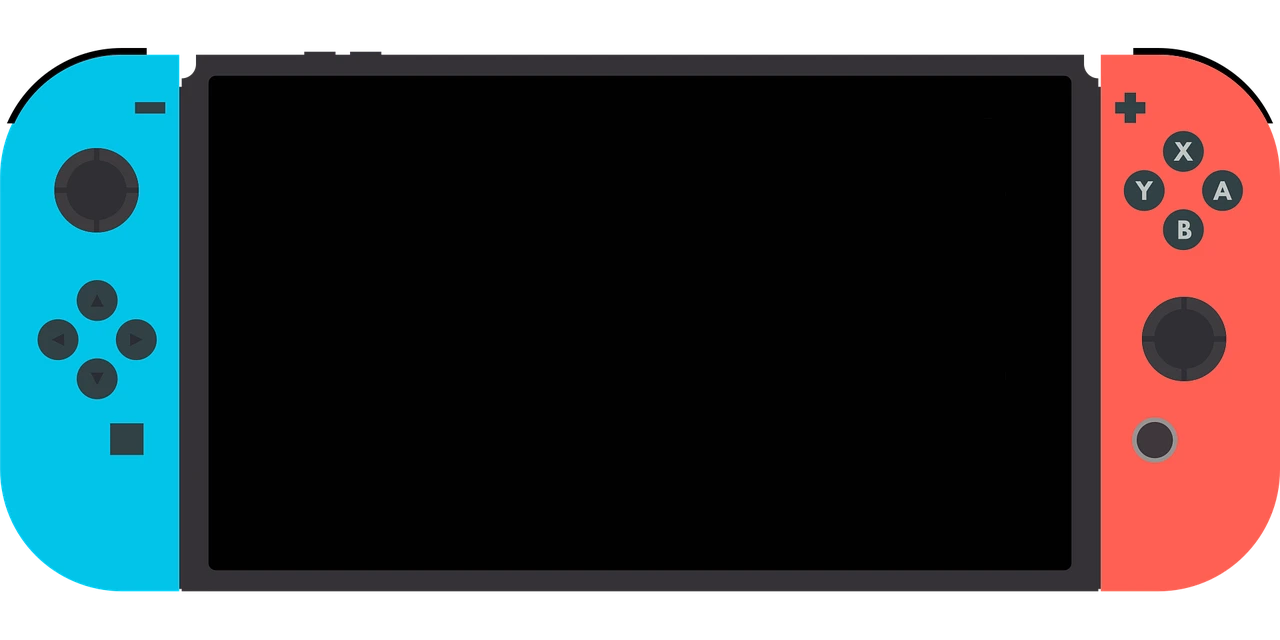
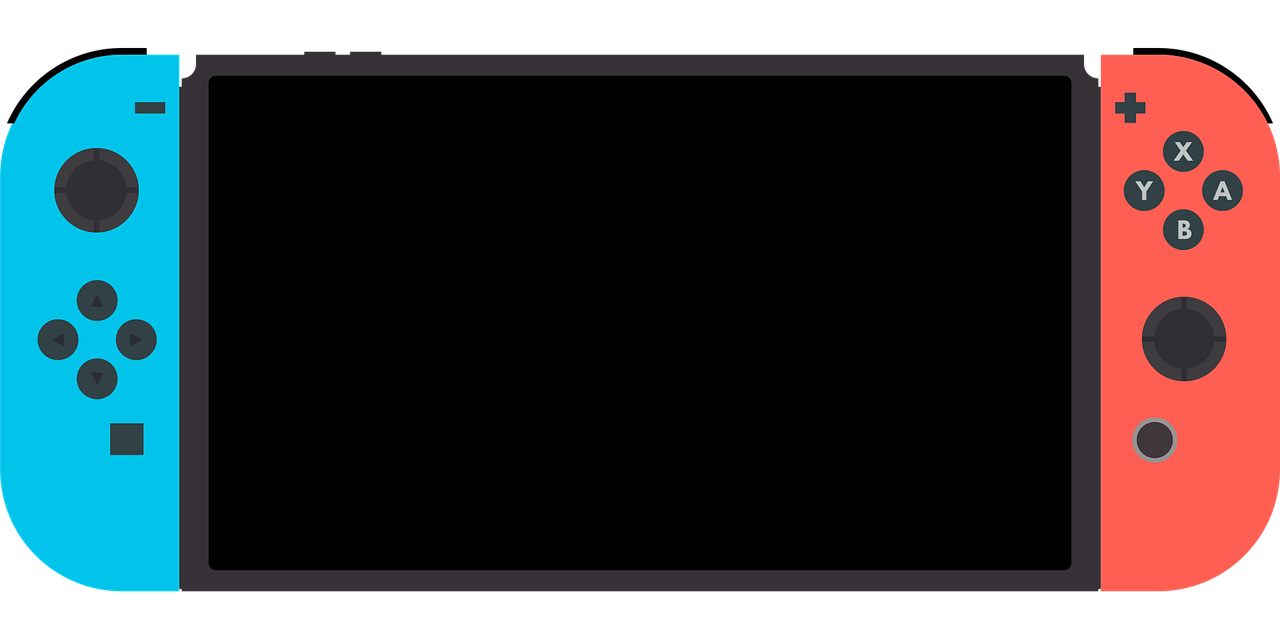
optimize images

diff --git a/dist/style.css b/dist/style.css
@@ -1,2 +1,2 @@
-@font-face{font-family:Cyberthrone;src:url(../app/fonts/cyberthrone.woff2)}:root{--font-body:"Cyberthrone";--transition-min:.2s;--transition-max:8s;--animate-delay:1s;--white:#fff;--aqua:#00fffb;--cherry:#b10b67;--light-gray:#333;--dark-gray:#141414;--black:#000}.animated{-webkit-animation-duration:1s;animation-duration:1s;-webkit-animation-fill-mode:both;animation-fill-mode:both}.delay-1{-webkit-animation-delay:var(--animate-delay);animation-delay:var(--animate-delay)}.delay-2{-webkit-animation-delay:calc(var(--animate-delay)*1.2);animation-delay:calc(var(--animate-delay)*1.2)}.delay-3{-webkit-animation-delay:calc(var(--animate-delay)*1.3);animation-delay:calc(var(--animate-delay)*1.3)}.delay-4{-webkit-animation-delay:calc(var(--animate-delay)*1.4);animation-delay:calc(var(--animate-delay)*1.4)}.delay-5{-webkit-animation-delay:calc(var(--animate-delay)*1.5);animation-delay:calc(var(--animate-delay)*1.5)}.delay-6{-webkit-animation-delay:calc(var(--animate-delay)*1.6);animation-delay:calc(var(--animate-delay)*1.6)}.delay-7{-webkit-animation-delay:calc(var(--animate-delay)*1.7);animation-delay:calc(var(--animate-delay)*1.7)}.delay-8{-webkit-animation-delay:calc(var(--animate-delay)*1.8);animation-delay:calc(var(--animate-delay)*1.8)}.delay-9{-webkit-animation-delay:calc(var(--animate-delay)*1.9);animation-delay:calc(var(--animate-delay)*1.9)}.delay-10{-webkit-animation-delay:calc(var(--animate-delay)*2);animation-delay:calc(var(--animate-delay)*2)}.delay-11{-webkit-animation-delay:calc(var(--animate-delay)*2.1);animation-delay:calc(var(--animate-delay)*2.1)}.delay-12{-webkit-animation-delay:calc(var(--animate-delay)*2.2);animation-delay:calc(var(--animate-delay)*2.2)}.delay-13{-webkit-animation-delay:calc(var(--animate-delay)*2.3);animation-delay:calc(var(--animate-delay)*2.3)}.delay-14{-webkit-animation-delay:calc(var(--animate-delay)*2.4);animation-delay:calc(var(--animate-delay)*2.4)}.delay-15{-webkit-animation-delay:calc(var(--animate-delay)*2.5);animation-delay:calc(var(--animate-delay)*2.5)}.fadeIn{-webkit-animation-name:fadeIn;animation-name:fadeIn}@-webkit-keyframes fadeIn{0%{opacity:0}to{opacity:1}}@keyframes fadeIn{0%{opacity:0}to{opacity:1}}html{box-sizing:border-box;font-size:100%}*,:after,:before{box-sizing:inherit;outline:none}body{color:var(--white);cursor:url(../images/tools/normal.cur),auto;font-family:var(--font-body);font-size:1.875rem;line-height:1.3;margin:0}@media (min-width:71.875em){body{overflow:hidden}}.subtitle,.title{cursor:url(../images/tools/busy.cur),auto}.title{font-size:7.8125rem;line-height:.8;margin:.3125rem 0;position:relative;-webkit-transform:translate(0);transform:translate(0)}.title:after,.title:before{content:"codlipa";left:0;opacity:.8;position:absolute}.title:after{color:var(--cherry);z-index:-2}.title:before{color:var(--aqua);z-index:-1}.title:hover:after,.title:hover:before{-webkit-animation:glitch var(--transition-min) cubic-bezier(.25,.46,.45,.94) infinite;animation:glitch var(--transition-min) cubic-bezier(.25,.46,.45,.94) infinite}.title:hover:after{animation-direction:reverse}.subtitle{font-size:2.25rem;margin-bottom:1.5625rem}@media (min-width:71.875em){.subtitle{font-size:2.375rem}}.subtitle--small{font-size:1.875rem}.subtitle--gradient{-webkit-text-fill-color:transparent;-webkit-background-clip:text;background-image:linear-gradient(var(--cherry),var(--aqua))}.paragraph:not(:last-child){margin-bottom:1.5625rem}h1,h2,h3,p{margin:0}a,a:active,a:visited{color:var(--cherry);text-decoration:none;text-shadow:0 0 .625rem var(--cherry)}#click,a:hover{cursor:url(../images/tools/link.cur),auto;text-decoration:line-through;-webkit-text-decoration-color:var(--aqua);text-decoration-color:var(--aqua)}.links__item{flex-grow:1;min-height:15.625rem;min-width:100%;overflow:hidden}@media (min-width:40em){.links__item{min-width:23.75rem}}.links--vertical{display:inline-flex;flex-direction:column}.links--vertical a{color:var(--aqua);-webkit-text-decoration-color:var(--cherry);text-decoration-color:var(--cherry);text-shadow:0 0 .625rem var(--aqua)}.links a:not(:last-child){padding-right:1.25rem}#click{align-items:center;background-color:var(--black);display:flex;justify-content:center;min-height:100vh;position:fixed;width:100%;z-index:1}#click:after{background:url(../images/loading.webp) no-repeat 50%/contain;content:"";min-height:20.9375rem;width:37.5rem}.wrapper{height:100vw}@media (min-width:71.875em){.wrapper{overflow-x:scroll;-webkit-transform:rotate(-90deg) translateX(-100vh);transform:rotate(-90deg) translateX(-100vh);-webkit-transform-origin:top left;transform-origin:top left}.wrapper::-webkit-scrollbar{display:none}.wrapper__inner{display:flex;-webkit-transform:rotate(90deg) translateY(-100vh);transform:rotate(90deg) translateY(-100vh);-webkit-transform-origin:top left;transform-origin:top left}}.slide{background-image:url(../images/background.webp);display:flex;flex-direction:column}.slide.one{align-items:center;justify-content:center}.slide.two{align-items:end;background-color:var(--light-gray);background-image:none}@media (min-width:71.875em){.slide.two{box-shadow:-8.75rem 0 2.5rem 2.8125rem var(--dark-gray)}}.slide:before{background-color:rgba(0,0,0,.6);content:"";min-height:100vh;min-width:100vw}.container{display:flex;flex-direction:column;justify-content:space-evenly;min-width:100%;overflow:hidden;position:absolute}@media (min-width:71.875em){.container{align-items:center;flex-direction:row}.container__portfolio{align-items:start;justify-content:end}}.scroll{overflow:visible}@media (min-width:71.875em){.scroll{max-height:100vh;overflow:scroll}}.scroll:first-child{max-width:40rem}.scroll:last-child{max-width:71.25rem}.scroll::-webkit-scrollbar{display:none}.wb-body{background-color:var(--dark-gray);color:var(--white);padding:20px}.hidden{left:-100%;position:relative}.one .section{padding:31.25rem 0 0 3.125rem}@media (min-width:71.875em){.one .section{padding:0}.one .section .suptitle{font-size:9.375rem}.one .section .social{margin-top:2.5rem}}@-webkit-keyframes glitch{0%{-webkit-transform:translate(0);transform:translate(0)}20%{-webkit-transform:translate(-.3125rem,.3125rem);transform:translate(-.3125rem,.3125rem)}40%{-webkit-transform:translate(-.3125rem,-.3125rem);transform:translate(-.3125rem,-.3125rem)}60%{-webkit-transform:translate(.3125rem,.3125rem);transform:translate(.3125rem,.3125rem)}80%{-webkit-transform:translate(.3125rem,-.3125rem);transform:translate(.3125rem,-.3125rem)}to{-webkit-transform:translate(0);transform:translate(0)}}@keyframes glitch{0%{-webkit-transform:translate(0);transform:translate(0)}20%{-webkit-transform:translate(-.3125rem,.3125rem);transform:translate(-.3125rem,.3125rem)}40%{-webkit-transform:translate(-.3125rem,-.3125rem);transform:translate(-.3125rem,-.3125rem)}60%{-webkit-transform:translate(.3125rem,.3125rem);transform:translate(.3125rem,.3125rem)}80%{-webkit-transform:translate(.3125rem,-.3125rem);transform:translate(.3125rem,-.3125rem)}to{-webkit-transform:translate(0);transform:translate(0)}}.progress__box{min-width:80%}.progress__bar,.progress__bar span{border-radius:.625rem;min-width:100%}.progress__bar{background-color:var(--light-gray);margin:1.25rem 0;min-height:1.25rem;position:relative}.progress__bar span{-webkit-animation:progress var(--transition-min) forwards;animation:progress var(--transition-min) forwards;background-color:var(--aqua);box-shadow:0 0 .625rem var(--aqua);min-height:100%;position:absolute;-webkit-transform:scaleX(0);transform:scaleX(0);-webkit-transform-origin:left;transform-origin:left}.progress__bar.html span{min-width:90%}.progress__bar.css span{min-width:85%}.progress__bar.javascript span{min-width:70%}.progress__bar.tailwind span{min-width:75%}.progress__bar.bootstrap span{min-width:65%}.progress__bar.git span{min-width:80%}@-webkit-keyframes progress{to{-webkit-transform:scaleX(1);transform:scaleX(1)}}@keyframes progress{to{-webkit-transform:scaleX(1);transform:scaleX(1)}}.hero{min-height:100vh;position:relative}@media (min-width:71.875em){.hero{align-items:end;display:flex}}.hero:before{background:url(../images/console.webp) no-repeat 50%/contain;bottom:3.625rem;content:"";left:-4.375rem;min-height:24.5rem;min-width:39.875rem;position:absolute;-webkit-transform:scaleX(-1) rotate(90deg);transform:scaleX(-1) rotate(90deg)}@media (min-width:40em){.hero:before{left:15.625rem}}@media (min-width:71.875em){.hero:before{bottom:-2.03125rem;left:0;min-width:46.125rem;position:relative;-webkit-transform:rotate(0);transform:rotate(0)}}.hero:after{background:url(../images/avatar.webp) no-repeat 50%/contain;bottom:31.625rem;content:"";left:6.25rem;min-height:20.3125rem;min-width:31.25rem;position:absolute;-webkit-transform:scaleX(-1);transform:scaleX(-1)}@media (min-width:40em){.hero:after{left:26.25rem}}@media (min-width:71.875em){.hero:after{bottom:15.625rem;left:26%;min-height:26.5625rem}}.timeline{background-color:var(--dark-gray);margin:0 auto;padding:2.5rem 0;text-align:center}@media (min-width:71.875em){.timeline{display:grid;grid-template-columns:1fr .1875rem 1fr;text-align:left}}.timeline__component{margin:0 1.5625rem}@media (min-width:71.875em){.timeline__component{margin-bottom:1.5625rem}}.timeline__component--bg{background:var(--light-gray);border-radius:.625rem;box-shadow:0 0 .3125rem var(--light-gray);padding:1.5625rem}.timeline__component--bg:nth-of-type(odd){margin-bottom:3.75rem}@media (min-width:71.875em){.timeline__component--bg:nth-of-type(odd){margin-bottom:1.5625rem}}.timeline__middle,.timeline__point{background-color:var(--aqua);box-shadow:0 0 .625rem var(--aqua)}.timeline__middle{position:relative}.timeline__point{display:none}@media (min-width:71.875em){.timeline__point{border-radius:50%;display:block;height:.9375rem;left:50%;position:absolute;top:0;-webkit-transform:translateX(-50%);transform:translateX(-50%);width:.9375rem}}.timeline__point--bottom{bottom:0;top:auto}.timeline__date{margin-bottom:3.75rem}.timeline__date--bottom,.timeline__date--right{margin-bottom:0}@media (min-width:71.875em){.timeline__date--right{text-align:right}}.portfolio{align-content:start;display:flex;flex-wrap:wrap}.portfolio .soon,.portfolio__image{background:no-repeat 50%/cover}.portfolio__image{min-height:100%;transition:var(--transition-min)}.portfolio__image:hover{-webkit-transform:scale(1.2);transform:scale(1.2)}.portfolio__image.soon{background-image:url(https://via.placeholder.com/380x250?text=Coming+Soon);cursor:url(../images/tools/unavailable.cur),auto}.portfolio__image.item-1{background-image:url(../images/content/item-1.webp)}.portfolio__image.item-2{background-image:url(../images/content/item-2.webp)}.portfolio__image.item-3{background-image:url(../images/content/item-3.webp)}.portfolio__image.item-4{background-image:url(../images/content/item-4.webp)}.portfolio__image.item-5{background-image:url(../images/content/item-5.webp)}.portfolio__image.item-6{background-image:url(../images/content/item-6.webp)}
+@font-face{font-family:Cyberthrone;src:url(../app/fonts/cyberthrone.woff2)}:root{--font-body:"Cyberthrone";--transition-min:.2s;--transition-max:8s;--animate-delay:1s;--white:#fff;--aqua:#00fffb;--cherry:#b10b67;--light-gray:#333;--dark-gray:#141414;--black:#000}.animated{-webkit-animation-duration:1s;animation-duration:1s;-webkit-animation-fill-mode:both;animation-fill-mode:both}.delay-1{-webkit-animation-delay:var(--animate-delay);animation-delay:var(--animate-delay)}.delay-2{-webkit-animation-delay:calc(var(--animate-delay)*1.2);animation-delay:calc(var(--animate-delay)*1.2)}.delay-3{-webkit-animation-delay:calc(var(--animate-delay)*1.3);animation-delay:calc(var(--animate-delay)*1.3)}.delay-4{-webkit-animation-delay:calc(var(--animate-delay)*1.4);animation-delay:calc(var(--animate-delay)*1.4)}.delay-5{-webkit-animation-delay:calc(var(--animate-delay)*1.5);animation-delay:calc(var(--animate-delay)*1.5)}.delay-6{-webkit-animation-delay:calc(var(--animate-delay)*1.6);animation-delay:calc(var(--animate-delay)*1.6)}.delay-7{-webkit-animation-delay:calc(var(--animate-delay)*1.7);animation-delay:calc(var(--animate-delay)*1.7)}.delay-8{-webkit-animation-delay:calc(var(--animate-delay)*1.8);animation-delay:calc(var(--animate-delay)*1.8)}.delay-9{-webkit-animation-delay:calc(var(--animate-delay)*1.9);animation-delay:calc(var(--animate-delay)*1.9)}.delay-10{-webkit-animation-delay:calc(var(--animate-delay)*2);animation-delay:calc(var(--animate-delay)*2)}.delay-11{-webkit-animation-delay:calc(var(--animate-delay)*2.1);animation-delay:calc(var(--animate-delay)*2.1)}.delay-12{-webkit-animation-delay:calc(var(--animate-delay)*2.2);animation-delay:calc(var(--animate-delay)*2.2)}.delay-13{-webkit-animation-delay:calc(var(--animate-delay)*2.3);animation-delay:calc(var(--animate-delay)*2.3)}.delay-14{-webkit-animation-delay:calc(var(--animate-delay)*2.4);animation-delay:calc(var(--animate-delay)*2.4)}.delay-15{-webkit-animation-delay:calc(var(--animate-delay)*2.5);animation-delay:calc(var(--animate-delay)*2.5)}.fadeIn{-webkit-animation-name:fadeIn;animation-name:fadeIn}@-webkit-keyframes fadeIn{0%{opacity:0}to{opacity:1}}@keyframes fadeIn{0%{opacity:0}to{opacity:1}}html{box-sizing:border-box;font-size:100%}*,:after,:before{box-sizing:inherit;outline:none}body{background-color:var(--dark-gray);color:var(--white);cursor:url(../images/tools/normal.cur),auto;font-family:var(--font-body);font-size:1.875rem;line-height:1.3;margin:0}@media (min-width:71.875em){body{overflow:hidden}}.subtitle,.title{cursor:url(../images/tools/busy.cur),auto}.title{font-size:7.8125rem;line-height:.8;margin:.3125rem 0;position:relative;-webkit-transform:translate(0);transform:translate(0)}.title:after,.title:before{content:"codlipa";left:0;opacity:.8;position:absolute}.title:after{color:var(--cherry);z-index:-2}.title:before{color:var(--aqua);z-index:-1}.title:hover:after,.title:hover:before{-webkit-animation:glitch var(--transition-min) cubic-bezier(.25,.46,.45,.94) infinite;animation:glitch var(--transition-min) cubic-bezier(.25,.46,.45,.94) infinite}.title:hover:after{animation-direction:reverse}.subtitle{font-size:2.25rem;margin-bottom:1.5625rem}@media (min-width:71.875em){.subtitle{font-size:2.375rem}}.subtitle--small{font-size:1.875rem}.subtitle--gradient{-webkit-text-fill-color:transparent;-webkit-background-clip:text;background-image:linear-gradient(var(--cherry),var(--aqua))}.paragraph:not(:last-child){margin-bottom:1.5625rem}h1,h2,h3,p{margin:0}a,a:active,a:visited{color:var(--cherry);text-decoration:none;text-shadow:0 0 .625rem var(--cherry)}#click,a:hover{cursor:url(../images/tools/link.cur),auto;text-decoration:line-through;-webkit-text-decoration-color:var(--aqua);text-decoration-color:var(--aqua)}.links__item{flex-grow:1;min-height:15.625rem;min-width:100%;overflow:hidden}@media (min-width:40em){.links__item{min-width:23.75rem}}.links--vertical{display:inline-flex;flex-direction:column}.links--vertical a{color:var(--aqua);-webkit-text-decoration-color:var(--cherry);text-decoration-color:var(--cherry);text-shadow:0 0 .625rem var(--aqua)}.links a:not(:last-child){padding-right:1.25rem}#click{align-items:center;background-color:var(--black);display:flex;justify-content:center;min-height:100vh;position:fixed;width:100%;z-index:1}#click:after{background:url(../images/loading.webp) no-repeat 50%/contain;content:"";min-height:20.9375rem;width:37.5rem}.wrapper{height:100vw}@media (min-width:71.875em){.wrapper{overflow-x:scroll;-webkit-transform:rotate(-90deg) translateX(-100vh);transform:rotate(-90deg) translateX(-100vh);-webkit-transform-origin:top left;transform-origin:top left}.wrapper::-webkit-scrollbar{display:none}.wrapper__inner{display:flex;-webkit-transform:rotate(90deg) translateY(-100vh);transform:rotate(90deg) translateY(-100vh);-webkit-transform-origin:top left;transform-origin:top left}}.slide{background-image:url(../images/background.webp);display:flex;flex-direction:column}.slide.one{align-items:center;justify-content:center}.slide.two{align-items:end;background-color:var(--light-gray);background-image:none}@media (min-width:71.875em){.slide.two{box-shadow:-8.75rem 0 2.5rem 2.8125rem var(--dark-gray)}}.slide:before{background-color:rgba(0,0,0,.6);content:"";min-height:100vh;min-width:100vw}.container{display:flex;flex-direction:column;justify-content:space-evenly;min-width:100%;overflow:hidden;position:absolute}@media (min-width:71.875em){.container{align-items:center;flex-direction:row}.container__portfolio{align-items:start;justify-content:end}}.scroll{overflow:visible}@media (min-width:71.875em){.scroll{max-height:100vh;overflow:scroll}}.scroll:first-child{max-width:40rem}.scroll:last-child{max-width:71.25rem}.scroll::-webkit-scrollbar{display:none}.wb-body{background-color:var(--dark-gray);color:var(--white);padding:20px}.hidden{left:-100%;position:relative}.one .section{padding:31.25rem 0 0 3.125rem}@media (min-width:71.875em){.one .section{padding:0}.one .section .suptitle{font-size:9.375rem}.one .section .social{margin-top:2.5rem}}@-webkit-keyframes glitch{0%{-webkit-transform:translate(0);transform:translate(0)}20%{-webkit-transform:translate(-.3125rem,.3125rem);transform:translate(-.3125rem,.3125rem)}40%{-webkit-transform:translate(-.3125rem,-.3125rem);transform:translate(-.3125rem,-.3125rem)}60%{-webkit-transform:translate(.3125rem,.3125rem);transform:translate(.3125rem,.3125rem)}80%{-webkit-transform:translate(.3125rem,-.3125rem);transform:translate(.3125rem,-.3125rem)}to{-webkit-transform:translate(0);transform:translate(0)}}@keyframes glitch{0%{-webkit-transform:translate(0);transform:translate(0)}20%{-webkit-transform:translate(-.3125rem,.3125rem);transform:translate(-.3125rem,.3125rem)}40%{-webkit-transform:translate(-.3125rem,-.3125rem);transform:translate(-.3125rem,-.3125rem)}60%{-webkit-transform:translate(.3125rem,.3125rem);transform:translate(.3125rem,.3125rem)}80%{-webkit-transform:translate(.3125rem,-.3125rem);transform:translate(.3125rem,-.3125rem)}to{-webkit-transform:translate(0);transform:translate(0)}}.progress__box{min-width:80%}.progress__bar,.progress__bar span{border-radius:.625rem;min-width:100%}.progress__bar{background-color:var(--light-gray);margin:1.25rem 0;min-height:1.25rem;position:relative}.progress__bar span{-webkit-animation:progress var(--transition-min) forwards;animation:progress var(--transition-min) forwards;background-color:var(--aqua);box-shadow:0 0 .625rem var(--aqua);min-height:100%;position:absolute;-webkit-transform:scaleX(0);transform:scaleX(0);-webkit-transform-origin:left;transform-origin:left}.progress__bar.html span{min-width:90%}.progress__bar.css span{min-width:85%}.progress__bar.javascript span{min-width:70%}.progress__bar.tailwind span{min-width:75%}.progress__bar.bootstrap span{min-width:65%}.progress__bar.git span{min-width:80%}@-webkit-keyframes progress{to{-webkit-transform:scaleX(1);transform:scaleX(1)}}@keyframes progress{to{-webkit-transform:scaleX(1);transform:scaleX(1)}}.hero{min-height:100vh;position:relative}@media (min-width:71.875em){.hero{align-items:end;display:flex}}.hero:before{background:url(../images/console.webp) no-repeat 50%/contain;bottom:3.625rem;content:"";left:-4.375rem;min-height:24.5rem;min-width:39.875rem;position:absolute;-webkit-transform:scaleX(-1) rotate(90deg);transform:scaleX(-1) rotate(90deg)}@media (min-width:40em){.hero:before{left:15.625rem}}@media (min-width:71.875em){.hero:before{bottom:-2.375rem;left:0;min-width:46.125rem;position:relative;-webkit-transform:rotate(0);transform:rotate(0)}}.hero:after{background:url(../images/avatar.webp) no-repeat 50%/contain;bottom:31.625rem;content:"";left:6.25rem;min-height:20.3125rem;min-width:31.25rem;position:absolute;-webkit-transform:scaleX(-1);transform:scaleX(-1)}@media (min-width:40em){.hero:after{left:26.25rem}}@media (min-width:71.875em){.hero:after{bottom:15.3125rem;left:26%;min-height:26.5625rem}}.timeline{background-color:var(--dark-gray);margin:0 auto;padding:2.5rem 0;text-align:center}@media (min-width:71.875em){.timeline{display:grid;grid-template-columns:1fr .1875rem 1fr;text-align:left}}.timeline__component{margin:0 1.5625rem}@media (min-width:71.875em){.timeline__component{margin-bottom:1.5625rem}}.timeline__component--bg{background:var(--light-gray);border-radius:.625rem;box-shadow:0 0 .3125rem var(--light-gray);padding:1.5625rem}.timeline__component--bg:nth-of-type(odd){margin-bottom:3.75rem}@media (min-width:71.875em){.timeline__component--bg:nth-of-type(odd){margin-bottom:1.5625rem}}.timeline__middle,.timeline__point{background-color:var(--aqua);box-shadow:0 0 .625rem var(--aqua)}.timeline__middle{position:relative}.timeline__point{display:none}@media (min-width:71.875em){.timeline__point{border-radius:50%;display:block;height:.9375rem;left:50%;position:absolute;top:0;-webkit-transform:translateX(-50%);transform:translateX(-50%);width:.9375rem}}.timeline__point--bottom{bottom:0;top:auto}.timeline__date{margin-bottom:3.75rem}.timeline__date--bottom,.timeline__date--right{margin-bottom:0}@media (min-width:71.875em){.timeline__date--right{text-align:right}}.portfolio{align-content:start;display:flex;flex-wrap:wrap}.portfolio .soon,.portfolio__image{background:no-repeat 50%/cover}.portfolio__image{min-height:100%;transition:var(--transition-min)}.portfolio__image:hover{-webkit-transform:scale(1.2);transform:scale(1.2)}.portfolio__image.soon{background-image:url(https://via.placeholder.com/380x250?text=Coming+Soon);cursor:url(../images/tools/unavailable.cur),auto}.portfolio__image.item-1{background-image:url(../images/content/item-1.webp)}.portfolio__image.item-2{background-image:url(../images/content/item-2.webp)}.portfolio__image.item-3{background-image:url(../images/content/item-3.webp)}.portfolio__image.item-4{background-image:url(../images/content/item-4.webp)}.portfolio__image.item-5{background-image:url(../images/content/item-5.webp)}.portfolio__image.item-6{background-image:url(../images/content/item-6.webp)}
 /*# sourceMappingURL=style.css.map */

diff --git a/index.html b/index.html
@@ -4,7 +4,7 @@
 		<meta charset="UTF-8">
 		<meta http-equiv="X-UA-Compatible" content="IE=edge">
 		<meta name="viewport" content="width=device-width, initial-scale=1.0">
-		<title>codlipa | Portfolio Website</title>
+		<title>codlipa | Personal Website</title>
 
 		<!-- SEO -->
 		<meta name="description" content="Creating websites using HTML, CSS and light JavaScript">

diff --git a/app/scss/globals/boilerplate.scss b/app/scss/globals/boilerplate.scss
@@ -13,9 +13,10 @@ html {
 body {
 	margin: 0;
 	font-size: rem(30);
-	font-family: var(--font-body);
-	color: var(--white);
 	line-height: 1.3;
+	color: var(--white);
+	font-family: var(--font-body);
+	background-color: var(--dark-gray);
 	cursor: url('../images/tools/normal.cur'), auto;
 
 	@include breakpoint(large) { overflow: hidden }

diff --git a/app/scss/components/main.scss b/app/scss/components/main.scss
@@ -96,7 +96,7 @@
 		@include breakpoint(large) {
 			position: relative;
 			left: 0;
-			bottom: rem(-32.5);
+			bottom: rem(-38);
 			min-width: rem(738);
 			transform: rotate(0);
 		}
@@ -116,7 +116,7 @@
 
 		@include breakpoint(large) {
 			left: 26%;
-			bottom: rem(250);
+			bottom: rem(245);
 			min-height: rem(425);
 		}
 	}
